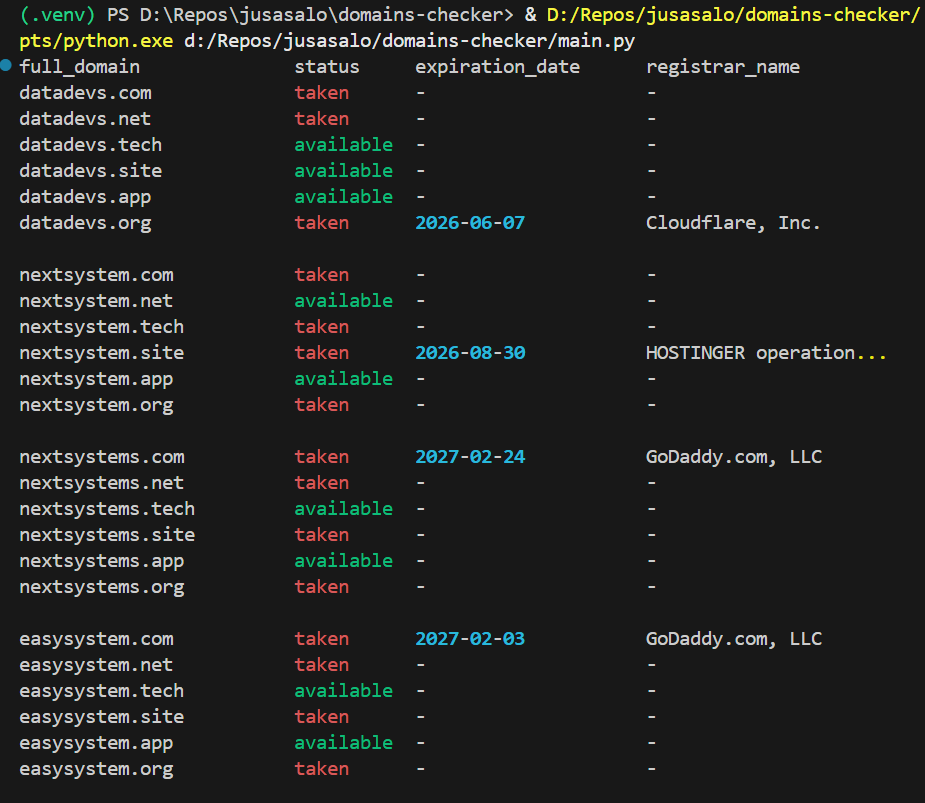
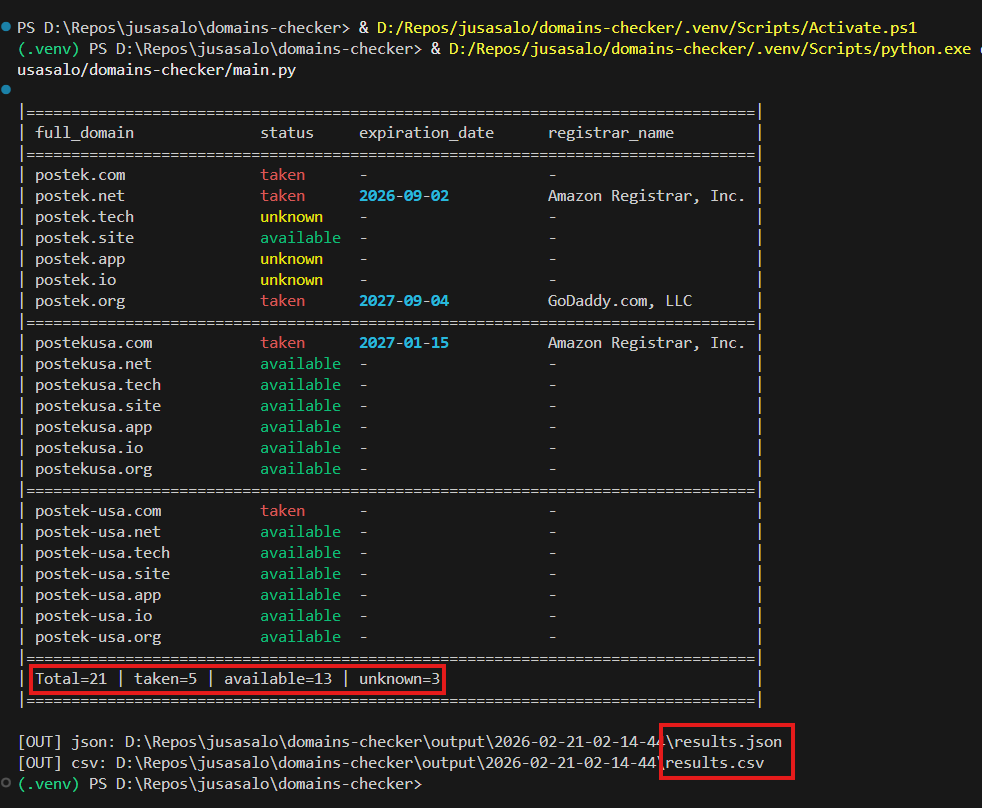
Refactor console output rendering in main.py and formatter.py for improved readability and structure

diff --git a/src/reporting/formatter.py b/src/reporting/formatter.py
@@ -1,7 +1,7 @@
 from __future__ import annotations
 
 import sys
-from typing import Any, Iterable, List, Sequence
+from typing import Any, Iterable, List, Sequence, Tuple
 
 from src.core.models import DomainResult, OutputConfig
 
@@ -129,22 +129,39 @@ def _fit(value: str, width: int) -> str:
     return f"{text[:width - 3]}..."
 
 
-def render_console(results: Sequence[DomainResult], output_config: OutputConfig) -> None:
+def build_summary_row(text: str, width: int) -> str:
+    """Construye una fila con bordes verticales y rellena hasta el ancho dado."""
+    if width < 4:
+        return text
+    inner_width = width - 2
+    content = f" {text} "
+    if len(content) > inner_width:
+        content = content[:inner_width]
+    return f"|{content.ljust(inner_width)}|"
+
+
+def render_console(results: Sequence[DomainResult], output_config: OutputConfig) -> Tuple[str, int]:
     columns = [column for column in output_config.columns if column != "registrar_url"]
     if not columns:
         columns = ["full_domain", "status", "expiration_date", "registrar_name"]
     widths = {column: _console_width(column, output_config) for column in columns}
     header_parts = [_fit(column, widths[column]) for column in columns]
     header = " ".join(header_parts)
+    header_line = f"| {header} |"
+    line_length = len(header_line)
+    horizontal_line = f"|{'=' * max(1, line_length - 2)}|"
 
     if rich_console_class is not None:
         console = rich_console_class()
-        console.print(header)
+        console.print()
+        console.print(horizontal_line)
+        console.print(header_line)
+        console.print(horizontal_line)
         previous_group = None
         for result in results:
             current_group = _domain_without_tld(result.domain)
             if previous_group is not None and current_group != previous_group:
-                console.print("")
+                console.print(horizontal_line)
             parts: List[str] = []
             for column in columns:
                 text = _field_text(result, column)
@@ -153,22 +170,29 @@ def render_console(results: Sequence[DomainResult], output_config: OutputConfig)
                     parts.append(f"[{color}]{_fit(text, widths[column])}[/{color}]")
                 else:
                     parts.append(_fit(text, widths[column]))
-            console.print(" ".join(parts))
+            row_text = " ".join(parts)
+            console.print(f"| {row_text} |")
             previous_group = current_group
-        return
+        console.print(horizontal_line)
+        return horizontal_line, line_length
 
-    print(header)
+    print()
+    print(horizontal_line)
+    print(header_line)
+    print(horizontal_line)
     previous_group = None
     for result in results:
         current_group = _domain_without_tld(result.domain)
         if previous_group is not None and current_group != previous_group:
-            print("")
+            print(horizontal_line)
         parts = [
             _fit(_field_text(result, column), widths[column]) for column in columns
         ]
         line = " ".join(parts)
-        print(_ansi_color(line, result.status))
+        print(_ansi_color(f"| {line} |", result.status))
         previous_group = current_group
+    print(horizontal_line)
+    return horizontal_line, line_length
 
 
 def summarize_results(results: Sequence[DomainResult]) -> str:

diff --git a/main.py b/main.py
@@ -10,7 +10,12 @@ from datetime import datetime
 
 from src.config.loader import load_bundle
 from src.core.orchestrator import run_pipeline
-from src.reporting.formatter import render_console, sort_results, summarize_results
+from src.reporting.formatter import (
+    build_summary_row,
+    render_console,
+    sort_results,
+    summarize_results,
+)
 from src.reporting.writer import write_outputs
 
 
@@ -147,9 +152,18 @@ def main() -> int:  # pylint: disable=too-many-return-statements
         output_dir=run_output_dir,
     )
 
+    closing_line = ""
+    table_width = 0
     if search_cfg.output.console:
-        render_console(results, search_cfg.output)
-    print(summarize_results(results))
+        closing_line, table_width = render_console(results, search_cfg.output)
+    summary_line = summarize_results(results)
+    if table_width:
+        print(build_summary_row(summary_line, table_width))
+    else:
+        print(summary_line)
+    if closing_line:
+        print(closing_line)
+        print()
     for warning in all_warnings:
         print(f"[WARN] {warning}")
     for fmt, path in written_paths.items():
